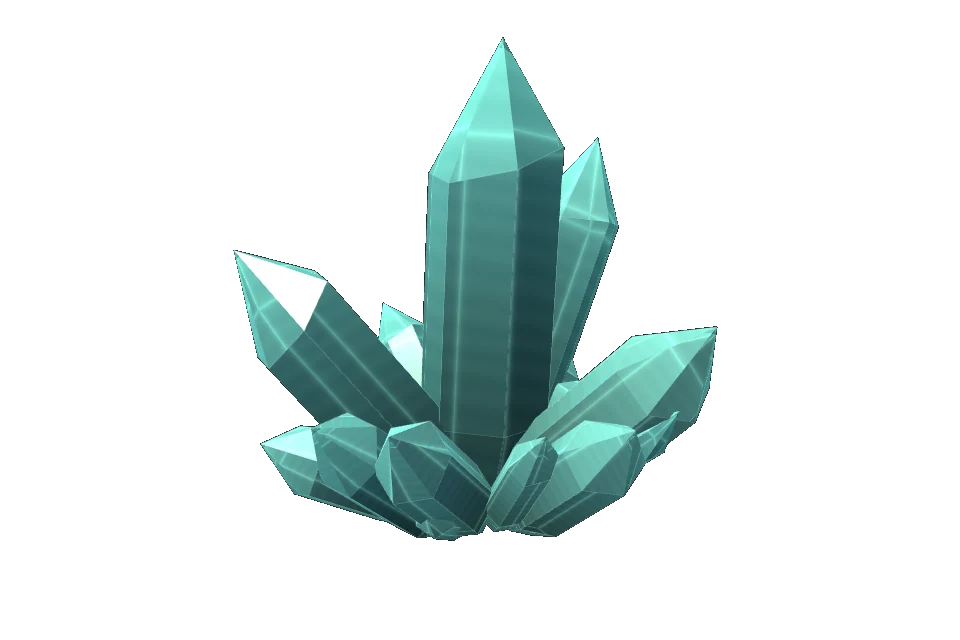
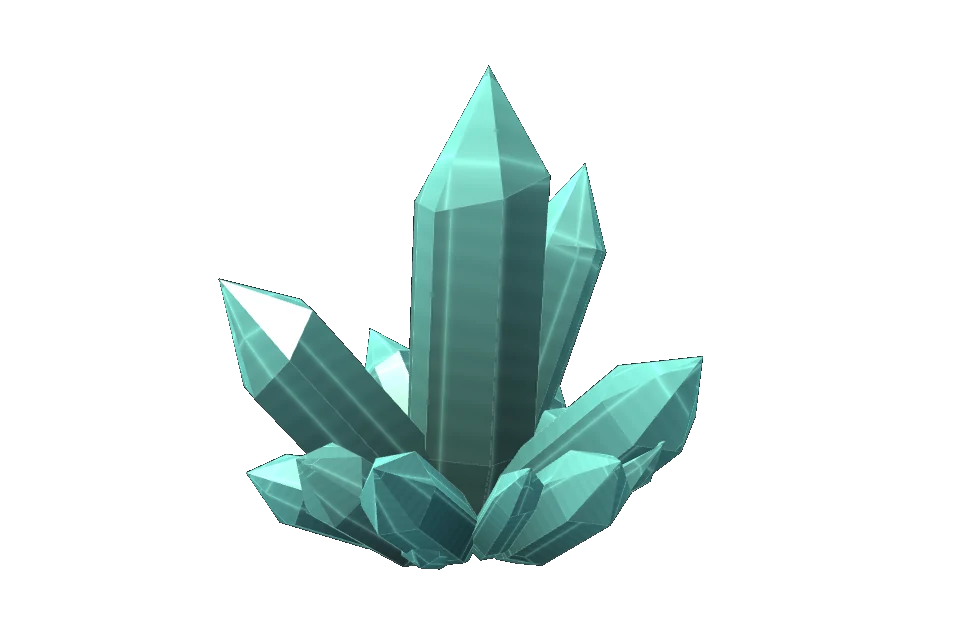
Center the crystal and start the hero from its seed

Changed region(s): [[0.2188, 0.0625, 0.75, 0.9062]]

diff --git a/index.html b/index.html
@@ -31,6 +31,18 @@
   });
 })();
 </script>
+<script>
+(() => {
+  if (!/^https?:$/.test(location.protocol) || !window.IntersectionObserver || !window.ResizeObserver) return;
+  const still = matchMedia('(prefers-reduced-motion: reduce), (forced-colors: active)');
+  // Choose the seed before the browser can paint the full-grown fallback.
+  if (!still.matches) document.documentElement.dataset.crystalView = 'seed';
+  document.addEventListener('DOMContentLoaded', () => {
+    import('./hero/controls.js').then(({ startCrystal }) => startCrystal(still))
+      .catch(() => { delete document.documentElement.dataset.crystalView; });
+  }, { once: true });
+})();
+</script>
 <link rel="stylesheet" href="modern-objectivity.css">
 <style>
 :root, [data-theme="dark"] {
@@ -66,8 +78,9 @@ header { border-bottom: 1px solid var(--mo-border); }
 .hero { position: relative; isolation: isolate; overflow: hidden; background: #10191d; color: var(--mo-text); }
 .hero::after { content: ""; position: absolute; inset: 0; z-index: -1; pointer-events: none; background: linear-gradient(90deg, #10191d80 0%, #10191d4d 38%, transparent 64%); }
 .hero-canvas { position: absolute; z-index: -2; inset: 0; width: 100%; height: 100%; pointer-events: none; visibility: hidden; }
-.hero[data-live] .hero-canvas { visibility: visible; }
-.hero[data-live] .study-window::before, .hero[data-live] .study-poster { visibility: hidden; }
+[data-crystal-view="live"] .hero-canvas { visibility: visible; }
+[data-crystal-view="live"] .study-window::before, [data-crystal-view] .study-poster { visibility: hidden; }
+[data-crystal-view="seed"] .study-window::after { content: ""; position: absolute; inset: 0; background: url("hero/kristall-keim.webp") center / contain no-repeat; pointer-events: none; }
 .hero-inner { display: grid; grid-template-columns: minmax(0, .95fr) minmax(0, 1.05fr); gap: clamp(24px, 5vw, 72px); align-items: center; padding-block: clamp(48px, 6vw, 88px); }
 .hero h1 { margin: 0 0 24px; font-size: clamp(3rem, 5.6vw, 5.5rem); line-height: 1.02; letter-spacing: -.055em; }
 .hero h1 em { font-family: var(--mo-serif); font-weight: 400; color: var(--mo-accent-active); }
@@ -75,18 +88,9 @@ header { border-bottom: 1px solid var(--mo-border); }
 .hero-links .mo-btn, .card-actions .mo-btn, .empty .mo-btn { min-width: 0; white-space: normal; }
 .lead { max-width: 52ch; font-size: clamp(1.125rem, 1.65vw, 1.5rem); line-height: 1.5; margin: 0 0 16px; }
 .intro { max-width: 55ch; margin: 0 0 24px; color: var(--mo-muted); }
-.study { min-width: 0; margin: 0; }
-.study-window { position: relative; width: 100%; max-width: 38rem; margin: auto; aspect-ratio: 3 / 2; }
+.study-window { position: relative; min-width: 0; width: 100%; max-width: 38rem; margin: auto; aspect-ratio: 3 / 2; }
 .study-window::before { content: ""; position: absolute; z-index: -2; left: 50%; top: 50%; width: 500%; aspect-ratio: 5 / 4; transform: translate(-50%, -50%); background: url("hero/raum.webp") center / contain no-repeat; pointer-events: none; }
 .study-poster { display: block; width: 100%; height: auto; pointer-events: none; }
-.study figcaption { display: grid; justify-items: center; gap: 12px; text-align: center; }
-.study-choices { display: flex; flex-wrap: wrap; justify-content: center; gap: 0; max-width: 100%; }
-.study-choices .mo-btn { padding-inline: clamp(10px, 1.4vw, 20px); background: var(--mo-bg); border-color: var(--mo-control-border); }
-.study-choices .mo-btn + .mo-btn { margin-inline-start: -1px; }
-.study-choices .mo-btn[aria-pressed="true"] { color: var(--mo-accent-active); background: var(--mo-accent-light); box-shadow: inset 0 -3px var(--mo-accent); }
-.study-choices .mo-btn:hover { background: var(--mo-surface-3); }
-.study-choices .mo-btn:focus-visible { position: relative; z-index: 1; }
-.study-caption { max-width: 45ch; min-height: 2.9em; margin: 0; color: var(--mo-muted); font-size: .875rem; line-height: 1.45; }
 
 .catalog, .journeys, .about { padding-block: clamp(40px, 5.6vw, 80px); }
 .catalog { background: var(--mo-surface-2); border-block: 1px solid var(--mo-border); }
@@ -199,7 +203,6 @@ header { border-bottom: 1px solid var(--mo-border); }
   .hero { background: Canvas; }
   .hero::after { display: none; }
   .study-window { isolation: isolate; overflow: hidden; }
-  .study-choices .mo-btn[aria-pressed="true"] { outline: 2px solid Highlight; outline-offset: -4px; }
 }
 </style>
 </head>
@@ -227,22 +230,8 @@ header { border-bottom: 1px solid var(--mo-border); }
 <canvas class="hero-canvas" aria-hidden="true"></canvas>
 <div class="wrap hero-inner">
 <div class="hero-copy"><h1 id="hero-heading">Wissen ist<br>ein Raum zum<br><em>Erkunden.</em></h1><p class="lead">Interaktive Experimente, wissenschaftliche Modelle und Atlanten – unabhängig voneinander, frei zugänglich und verbunden durch Neugier.</p><p class="intro">Du brauchst kein Vorwissen. Wähle ein Thema, stelle Fragen und finde heraus, wie die Dinge zusammenhängen.</p><div class="hero-links"><a class="mo-btn mo-btn-primary" href="#projects">Projekte entdecken</a><a class="mo-btn" href="#journeys">Wissensreise beginnen</a></div></div>
-<figure class="study" aria-label="Schematische Darstellung im XYZ-Koordinatenraum">
-  <div class="study-window" aria-hidden="true">
-    <img class="study-poster" src="hero/kristall.webp" width="960" height="640" alt="">
-  </div>
-  <figcaption>
-    <div class="study-choices" role="group" aria-label="Schaubild wählen" hidden>
-      <button class="mo-btn" type="button" data-study="kristall" aria-pressed="true">Kristall</button>
-      <button class="mo-btn" type="button" data-study="klangfigur" aria-pressed="false">Klangfigur</button>
-      <button class="mo-btn" type="button" data-study="farbwirbel" aria-pressed="false">Farbwirbel</button>
-    </div>
-    <p class="study-caption" aria-live="polite" aria-atomic="true">
-      <span data-caption="kristall">Aus einem Keim wächst ein Bündel facettierter Kristalle.</span>
-      <span data-caption="klangfigur" hidden>Sand sammelt sich auf den Knotenlinien einer schwingenden Platte.</span>
-      <span data-caption="farbwirbel" hidden>Ein Ring aus Farbe rollt sich im Wasser ein und zieht feine Fäden hinter sich her.</span>
-    </p>
-  </figcaption>
+<figure class="study-window" role="img" aria-label="Schematische Darstellung eines Kristallbündels am Ursprung der X-, Y- und Z-Achse.">
+  <img class="study-poster" src="hero/kristall.webp" width="960" height="640" alt="">
 </figure>
 </div>
 </section>
@@ -325,6 +314,5 @@ update();
 document.getElementById("project-filters").hidden = false;
 })();
 </script>
-<script defer src="hero/controls.js"></script>
 </body>
 </html>

diff --git a/hero/controls.js b/hero/controls.js
@@ -1,66 +1,64 @@
-(() => {
-  'use strict';
+export function startCrystal(still) {
+  const root = document.documentElement;
   const hero = document.querySelector('.hero');
   const canvas = hero.querySelector('.hero-canvas');
   const viewport = hero.querySelector('.study-window');
-  const poster = hero.querySelector('.study-poster');
-  const picker = hero.querySelector('.study-choices');
-  const buttons = Array.from(picker.querySelectorAll('[data-study]'));
-  const captions = hero.querySelectorAll('[data-caption]');
-  const reduced = matchMedia('(prefers-reduced-motion: reduce)');
-  const forced = matchMedia('(forced-colors: active)');
-  const duration = 4300;
-  let selected = 'kristall';
-  let elapsed = 1650;
+  const growthDuration = 4300;
+  const cameraDuration = 5000;
+  let elapsed = root.dataset.crystalView === 'seed' ? 0 : cameraDuration;
+  let previousTime = null;
   let scene;
+  let frame = 0;
+  let inView = false;
   let loading = false;
   let failed = false;
   let lost = false;
-  let inView = false;
-  let frame = 0;
-  let previousTime = null;
+  let layoutNeeded = true;
 
   function canDraw() {
-    return inView && !document.hidden && !reduced.matches && !forced.matches && !lost && !failed;
+    return inView && !document.hidden && !still.matches && !lost && !failed;
   }
 
-  function stop() {
-    cancelAnimationFrame(frame);
-    frame = 0;
-    previousTime = null;
-  }
-
-  function layout() {
-    const area = canvas.getBoundingClientRect();
-    const plot = viewport.getBoundingClientRect();
-    scene.resize(area.width, area.height, plot.left - area.left + plot.width / 2,
-      plot.top - area.top + plot.height / 2, plot.height, Math.min(devicePixelRatio || 1, 1.5));
+  function showStill() {
+    delete root.dataset.crystalView;
+    // After showing the grown crystal, resume at the matching final pose.
+    elapsed = cameraDuration;
   }
 
   function paint(time) {
     frame = 0;
     if (!canDraw()) return;
-    if (previousTime !== null) elapsed = Math.min(duration, elapsed + time - previousTime);
+    if (previousTime !== null) elapsed = Math.min(cameraDuration, elapsed + time - previousTime);
     previousTime = time;
     try {
-      scene.render(selected, elapsed / duration);
-      hero.setAttribute('data-live', '');
+      if (layoutNeeded) {
+        const area = canvas.getBoundingClientRect();
+        const plot = viewport.getBoundingClientRect();
+        scene.resize(area.width, area.height, plot.left - area.left + plot.width / 2,
+          plot.top - area.top + plot.height / 2, plot.height, Math.min(devicePixelRatio || 1, 1.5));
+        layoutNeeded = false;
+      }
+      scene.render('kristall', Math.min(1, elapsed / growthDuration), elapsed / cameraDuration);
+      if (lost) return;
+      root.dataset.crystalView = 'live';
     } catch {
       failed = true;
-      hero.removeAttribute('data-live');
+      showStill();
       return;
     }
-    if (elapsed < duration) frame = requestAnimationFrame(paint);
+    if (elapsed < cameraDuration) frame = requestAnimationFrame(paint);
     else previousTime = null;
   }
 
   async function sync() {
     if (!canDraw()) {
-      stop();
-      if (reduced.matches || forced.matches || lost) hero.removeAttribute('data-live');
+      cancelAnimationFrame(frame);
+      frame = 0;
+      previousTime = null;
+      if (still.matches || failed || lost) showStill();
       return;
     }
-    if (location.protocol === 'file:' || loading) return;
+    if (loading) return;
     if (!scene) {
       loading = true;
       try {
@@ -68,44 +66,30 @@
         if (canDraw()) scene = createHeroScene(canvas);
       } catch {
         failed = true;
+        showStill();
       } finally {
         loading = false;
       }
     }
-    if (!scene || !canDraw()) return;
-    layout();
-    if (!frame) frame = requestAnimationFrame(paint);
+    if (scene && canDraw() && !frame) frame = requestAnimationFrame(paint);
   }
 
-  for (const button of buttons) {
-    button.addEventListener('click', () => {
-      const name = button.dataset.study;
-      if (name !== selected) {
-        selected = name;
-        poster.src = 'hero/' + name + '.webp';
-        for (const item of buttons) item.setAttribute('aria-pressed', String(item === button));
-        for (const caption of captions) caption.hidden = caption.dataset.caption !== name;
-      }
-      elapsed = 0;
-      previousTime = null;
-      sync();
-    });
+  function resize() {
+    layoutNeeded = true;
+    sync();
   }
-  picker.hidden = false;
-  // The static exhibits and their selector also work from a local file and without WebGL.
-  if (location.protocol === 'file:') return;
+
   canvas.addEventListener('webglcontextlost', event => {
     event.preventDefault();
     lost = true;
     sync();
   });
-  canvas.addEventListener('webglcontextrestored', () => { lost = false; sync(); });
+  canvas.addEventListener('webglcontextrestored', () => { lost = false; resize(); });
   new IntersectionObserver(([entry]) => { inView = entry.isIntersecting; sync(); }).observe(hero);
-  const size = new ResizeObserver(sync);
+  const size = new ResizeObserver(resize);
   size.observe(hero);
   size.observe(viewport);
-  document.fonts.ready.then(sync);
+  document.fonts.ready.then(resize);
   document.addEventListener('visibilitychange', sync);
-  reduced.addEventListener('change', sync);
-  forced.addEventListener('change', sync);
-})();
+  still.addEventListener('change', sync);
+}

diff --git a/hero/studies.js b/hero/studies.js
@@ -50,7 +50,7 @@ function createCrystal() {
         facetNormal = normalMatrix * normal;
         toEye = -view.xyz;
         insideRay = inverse(mat3(modelViewMatrix)) * refract(normalize(view.xyz), normalize(facetNormal), 0.66);
-        crystalTint = fract(dot(modelMatrix[3].xz, vec2(12.9, 57.3)));
+        crystalTint = fract(dot(normalize(modelMatrix[0].xyz).xz, vec2(12.9, 57.3)));
         gl_Position = projectionMatrix * view;
       }`,
     fragmentShader: `
@@ -97,14 +97,16 @@ function createCrystal() {
   // Each prism is anchored at its base, so new tips grow outwards from the seed.
   const stalks = [];
   const up = new THREE.Vector3(0, 1, 0);
+  const orientation = new THREE.Quaternion().setFromAxisAngle(up, -0.07);
   function prism(x, z, leanX, leanZ, length, radius, twist, delay) {
     const mesh = new THREE.Mesh(geometry, mineral);
     mesh.add(new THREE.LineSegments(edges, edgeMaterial));
-    mesh.position.set(x, -1.13, z);
+    const base = new THREE.Vector3(x, 0, z).applyQuaternion(orientation);
     mesh.quaternion.setFromUnitVectors(up, new THREE.Vector3(leanX, 1, leanZ).normalize());
     mesh.rotateY(twist);
+    mesh.quaternion.premultiply(orientation);
     group.add(mesh);
-    stalks.push({ mesh, radius, length, delay });
+    stalks.push({ mesh, base, radius, length, delay });
   }
   prism(0, 0, 0.15, -0.12, 2.63, 0.39, 0.18, 0);
   prism(0.15, -0.15, 0.82, -0.35, 2.19, 0.30, 0.62, 0.09);
@@ -119,14 +121,31 @@ function createCrystal() {
     prism(x * 0.38, z * 0.38, x * lean, z * lean, 0.58 + random() * 0.79,
       0.12 + random() * 0.12, random(), 0.15 + random() * 0.30);
   }
+  const bounds = new THREE.Box3();
+  const point = new THREE.Vector3();
+  const center = new THREE.Vector3();
+  const vertices = geometry.getAttribute('position');
+  let previousGrowth = -1;
   return { group, update(t) {
-    group.rotation.y = -0.42 + 0.35 * t;
-    for (const { mesh, radius, length, delay } of stalks) {
+    if (t === previousGrowth) return;
+    previousGrowth = t;
+    bounds.makeEmpty();
+    for (const { mesh, base, radius, length, delay } of stalks) {
       const growth = THREE.MathUtils.smoothstep(t, delay, 1);
-      mesh.visible = growth > 0 || delay === 0;
-      const width = radius * (0.14 + 0.86 * Math.sqrt(growth));
-      mesh.scale.set(width, length * (0.04 + 0.96 * growth), width);
+      const fraction = delay === 0 ? 0.06 + 0.94 * growth : growth;
+      mesh.visible = fraction > 0;
+      if (!mesh.visible) continue;
+      mesh.position.copy(base).multiplyScalar(fraction);
+      const width = radius * Math.sqrt(fraction);
+      mesh.scale.set(width, length * fraction, width);
+      mesh.updateMatrix();
+      // Measure the actual tilted facets in group space, including just the visible prisms.
+      for (let i = 0; i < vertices.count; i++) {
+        bounds.expandByPoint(point.fromBufferAttribute(vertices, i).applyMatrix4(mesh.matrix));
+      }
     }
+    bounds.getCenter(center);
+    for (const { mesh } of stalks) if (mesh.visible) mesh.position.sub(center);
   } };
 }
 

diff --git a/hero/scene.js b/hero/scene.js
@@ -85,7 +85,9 @@ export function createHeroScene(canvas) {
   renderer.setClearColor(0x10191d);
   renderer.autoClear = false;
   const camera = new THREE.PerspectiveCamera(30, 1, 0.10, 80);
-  camera.position.set(-7.5, 5.4, 8.5);
+  const cameraStart = new THREE.Vector3(-7.5, 5.4, 8.5);
+  const sweep = THREE.MathUtils.degToRad(8);
+  camera.position.copy(cameraStart);
   camera.lookAt(0, 0, 0);
   const { space, labels } = coordinates();
   const subjects = new THREE.Scene();
@@ -106,7 +108,10 @@ export function createHeroScene(canvas) {
       camera.setViewOffset(width, height, width / 2 - originX, height / 2 - originY, width, height);
       for (const label of labels) label.scale.setScalar(20 * fieldHeight / studyHeight);
     },
-    render(name, progress) {
+    render(name, progress, cameraProgress = 0) {
+      const angle = sweep * (1 - Math.cos(2 * Math.PI * cameraProgress)) / 2;
+      camera.position.copy(cameraStart).applyAxisAngle(camera.up, angle);
+      camera.lookAt(0, 0, 0);
       if (!cache.has(name)) {
         const study = studies[name]();
         subjects.add(study.group);

diff --git a/README.md b/README.md
@@ -43,7 +43,7 @@ The directory follows the [Modern Objectivity style kit](https://philipp-klinz.n
 
 Cards have square corners. Buttons, search and project actions share a 2.75 rem outer height at the default text size. The directory uses the Signal accent in both themes. It follows the device theme until a reader chooses one with the header toggle. The browser stores that choice locally. Search and category controls enhance the static directory. All project links, journeys and the crystal illustration are available with JavaScript disabled.
 
-The header shows crystal growth, a Chladni plate and a dye vortex in one XYZ coordinate space. Select a study to play its short animation. Serving the directory over HTTP enables WebGL 2. Opening the file directly, using reduced motion or using a browser without WebGL displays stills rendered from the same models. The two ES modules come from the [Three.js r180 distribution](https://github.com/mrdoob/three.js/tree/r180/build) and include its [MIT license](vendor/three/LICENSE).
+The header shows a crystal growing at the XYZ origin. The camera moves through a small arc and settles. Over HTTP, a still of the seed covers the loading interval until WebGL 2 draws the same seed. Opening the file directly, using reduced motion or using a browser without WebGL displays the grown crystal. The Chladni plate and dye vortex are retained in `hero/studies.js` with their stills for future use. The two ES modules come from the [Three.js r180 distribution](https://github.com/mrdoob/three.js/tree/r180/build) and include its [MIT license](vendor/three/LICENSE).
 
 ## Multilingual access (planned)
 

diff --git a/docs/MULTILINGUALISM.md b/docs/MULTILINGUALISM.md
@@ -26,7 +26,7 @@ Snapshot of repository `main` trees inspected on 24 November 2026. Counts includ
 
 | Repository | HTML pages | Translation work beyond ordinary HTML |
 | --- | ---: | --- |
-| [learning-labs](https://github.com/philippklinz/learning-labs) | 1 | Search terms, filters, counts, project cards and three study labels and captions |
+| [learning-labs](https://github.com/philippklinz/learning-labs) | 1 | Search terms, filters, counts, project cards and the crystal illustration’s accessible name |
 | [lab-early-earth](https://github.com/philippklinz/lab-early-earth) | 6 | Timeline data labels, 36 geological portraits, trainer feedback, 3D explanations, SVGs and numerical output |
 | [lab-abiogenesis](https://github.com/philippklinz/lab-abiogenesis) | 7 | Chemistry controls, molecular diagrams, RNA exercises, hypotheses and evidence feedback |
 | [lab-molecular-biology](https://github.com/philippklinz/lab-molecular-biology) | 9 | Glossary/search, inline scripts, DNA/RNA views, sequence exercises and shared navigation |
